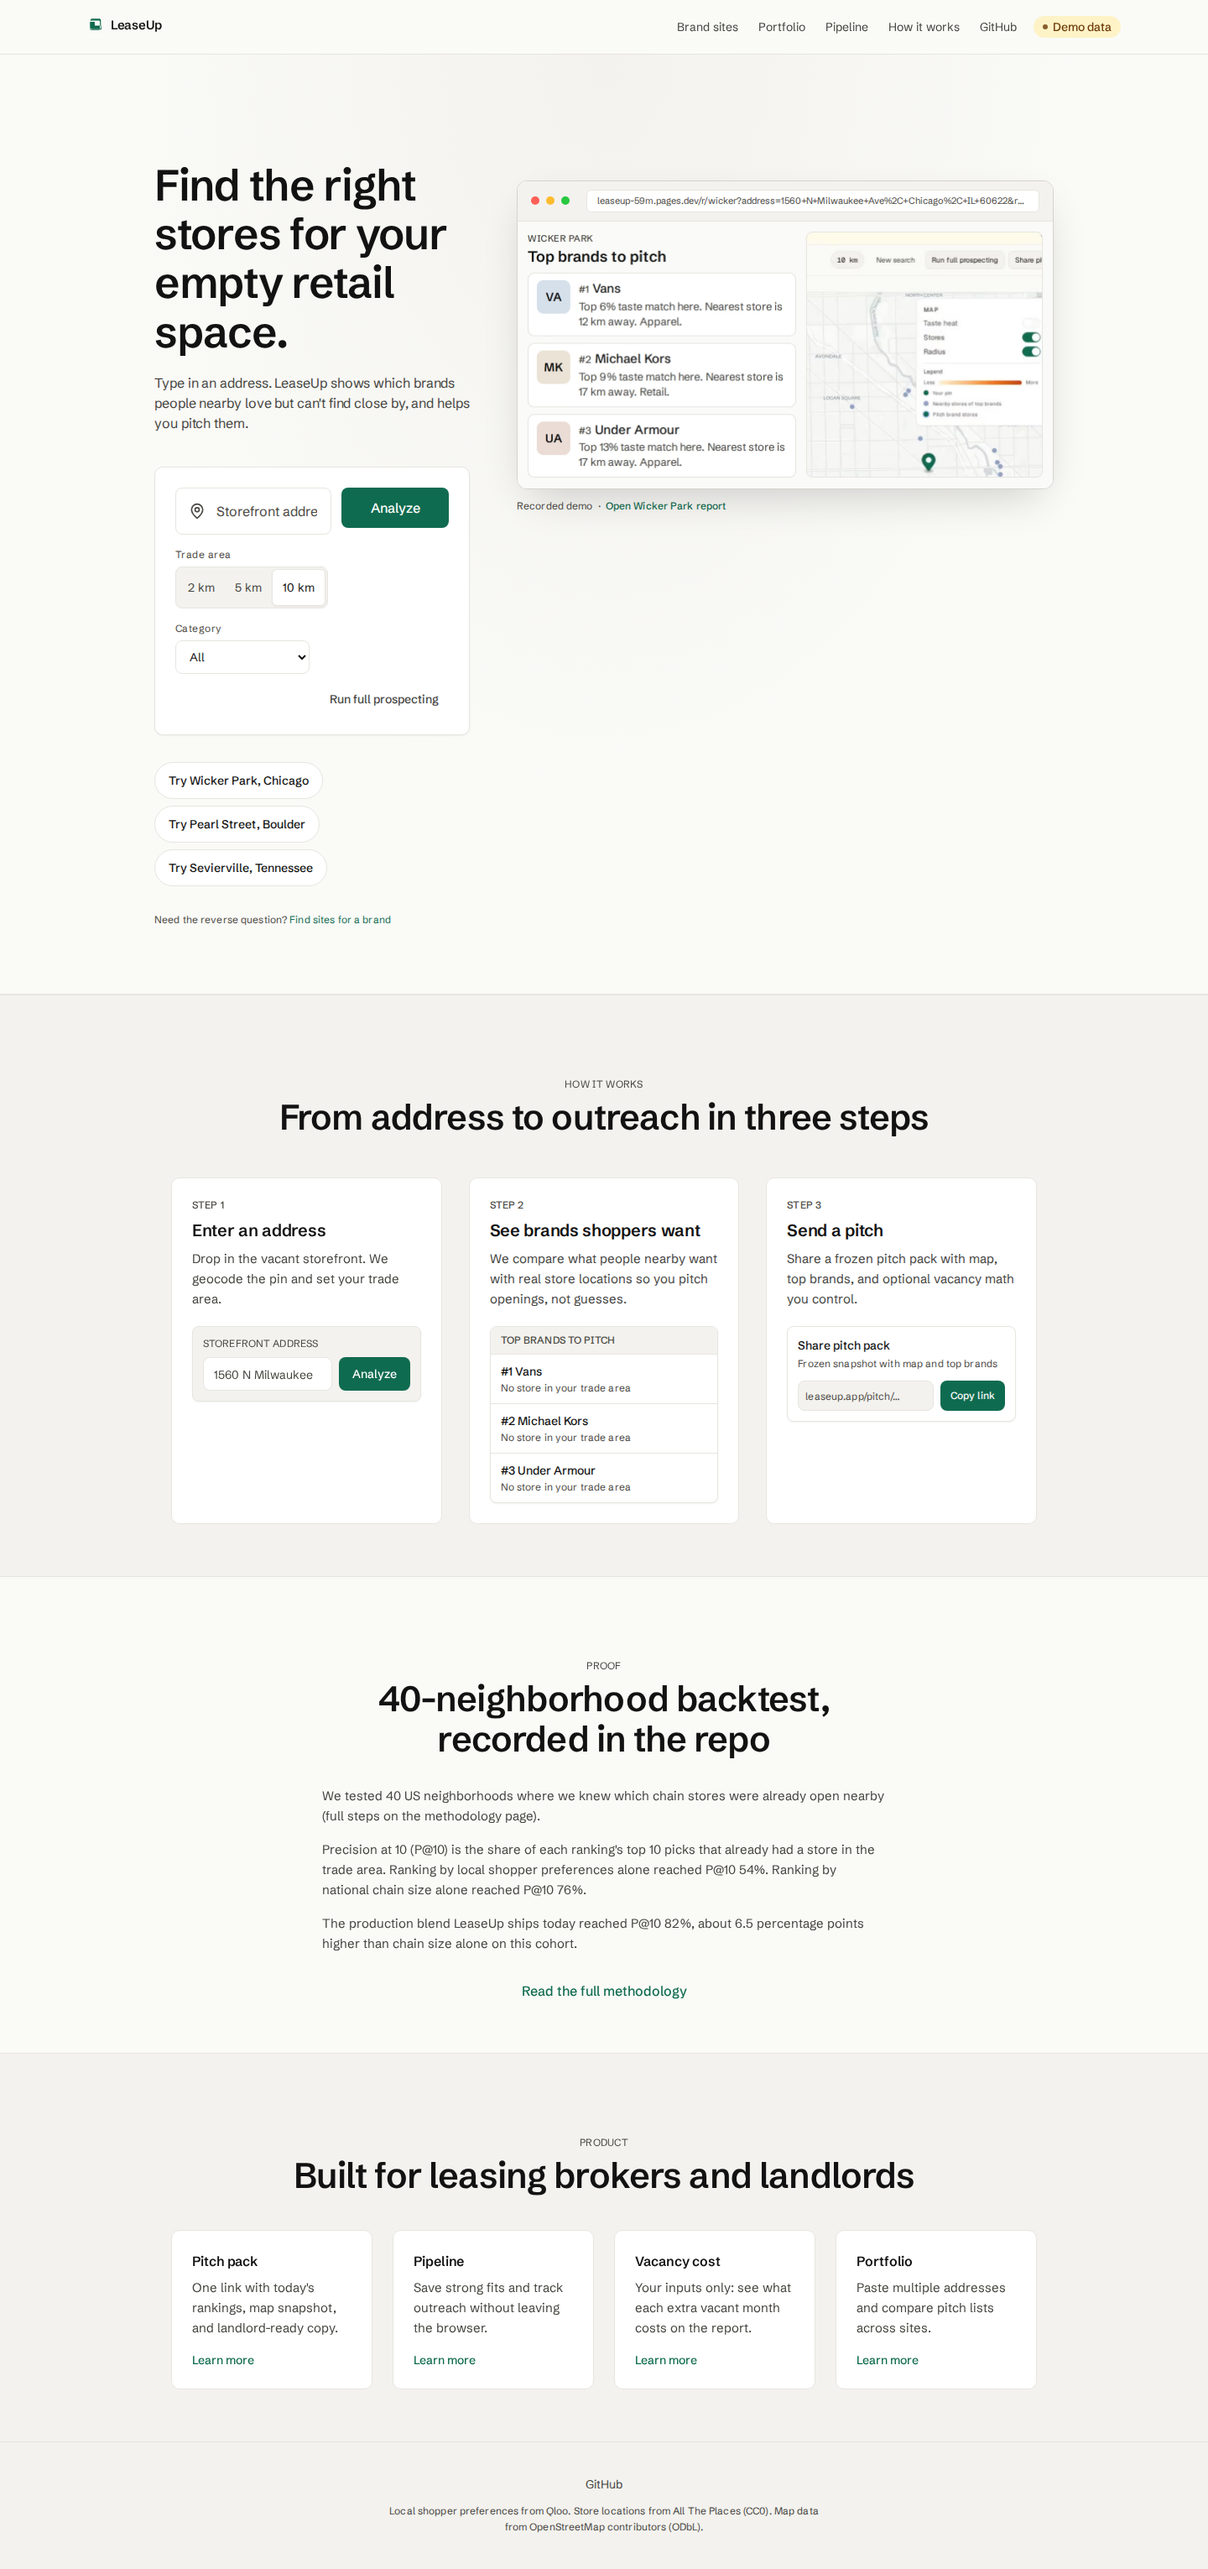
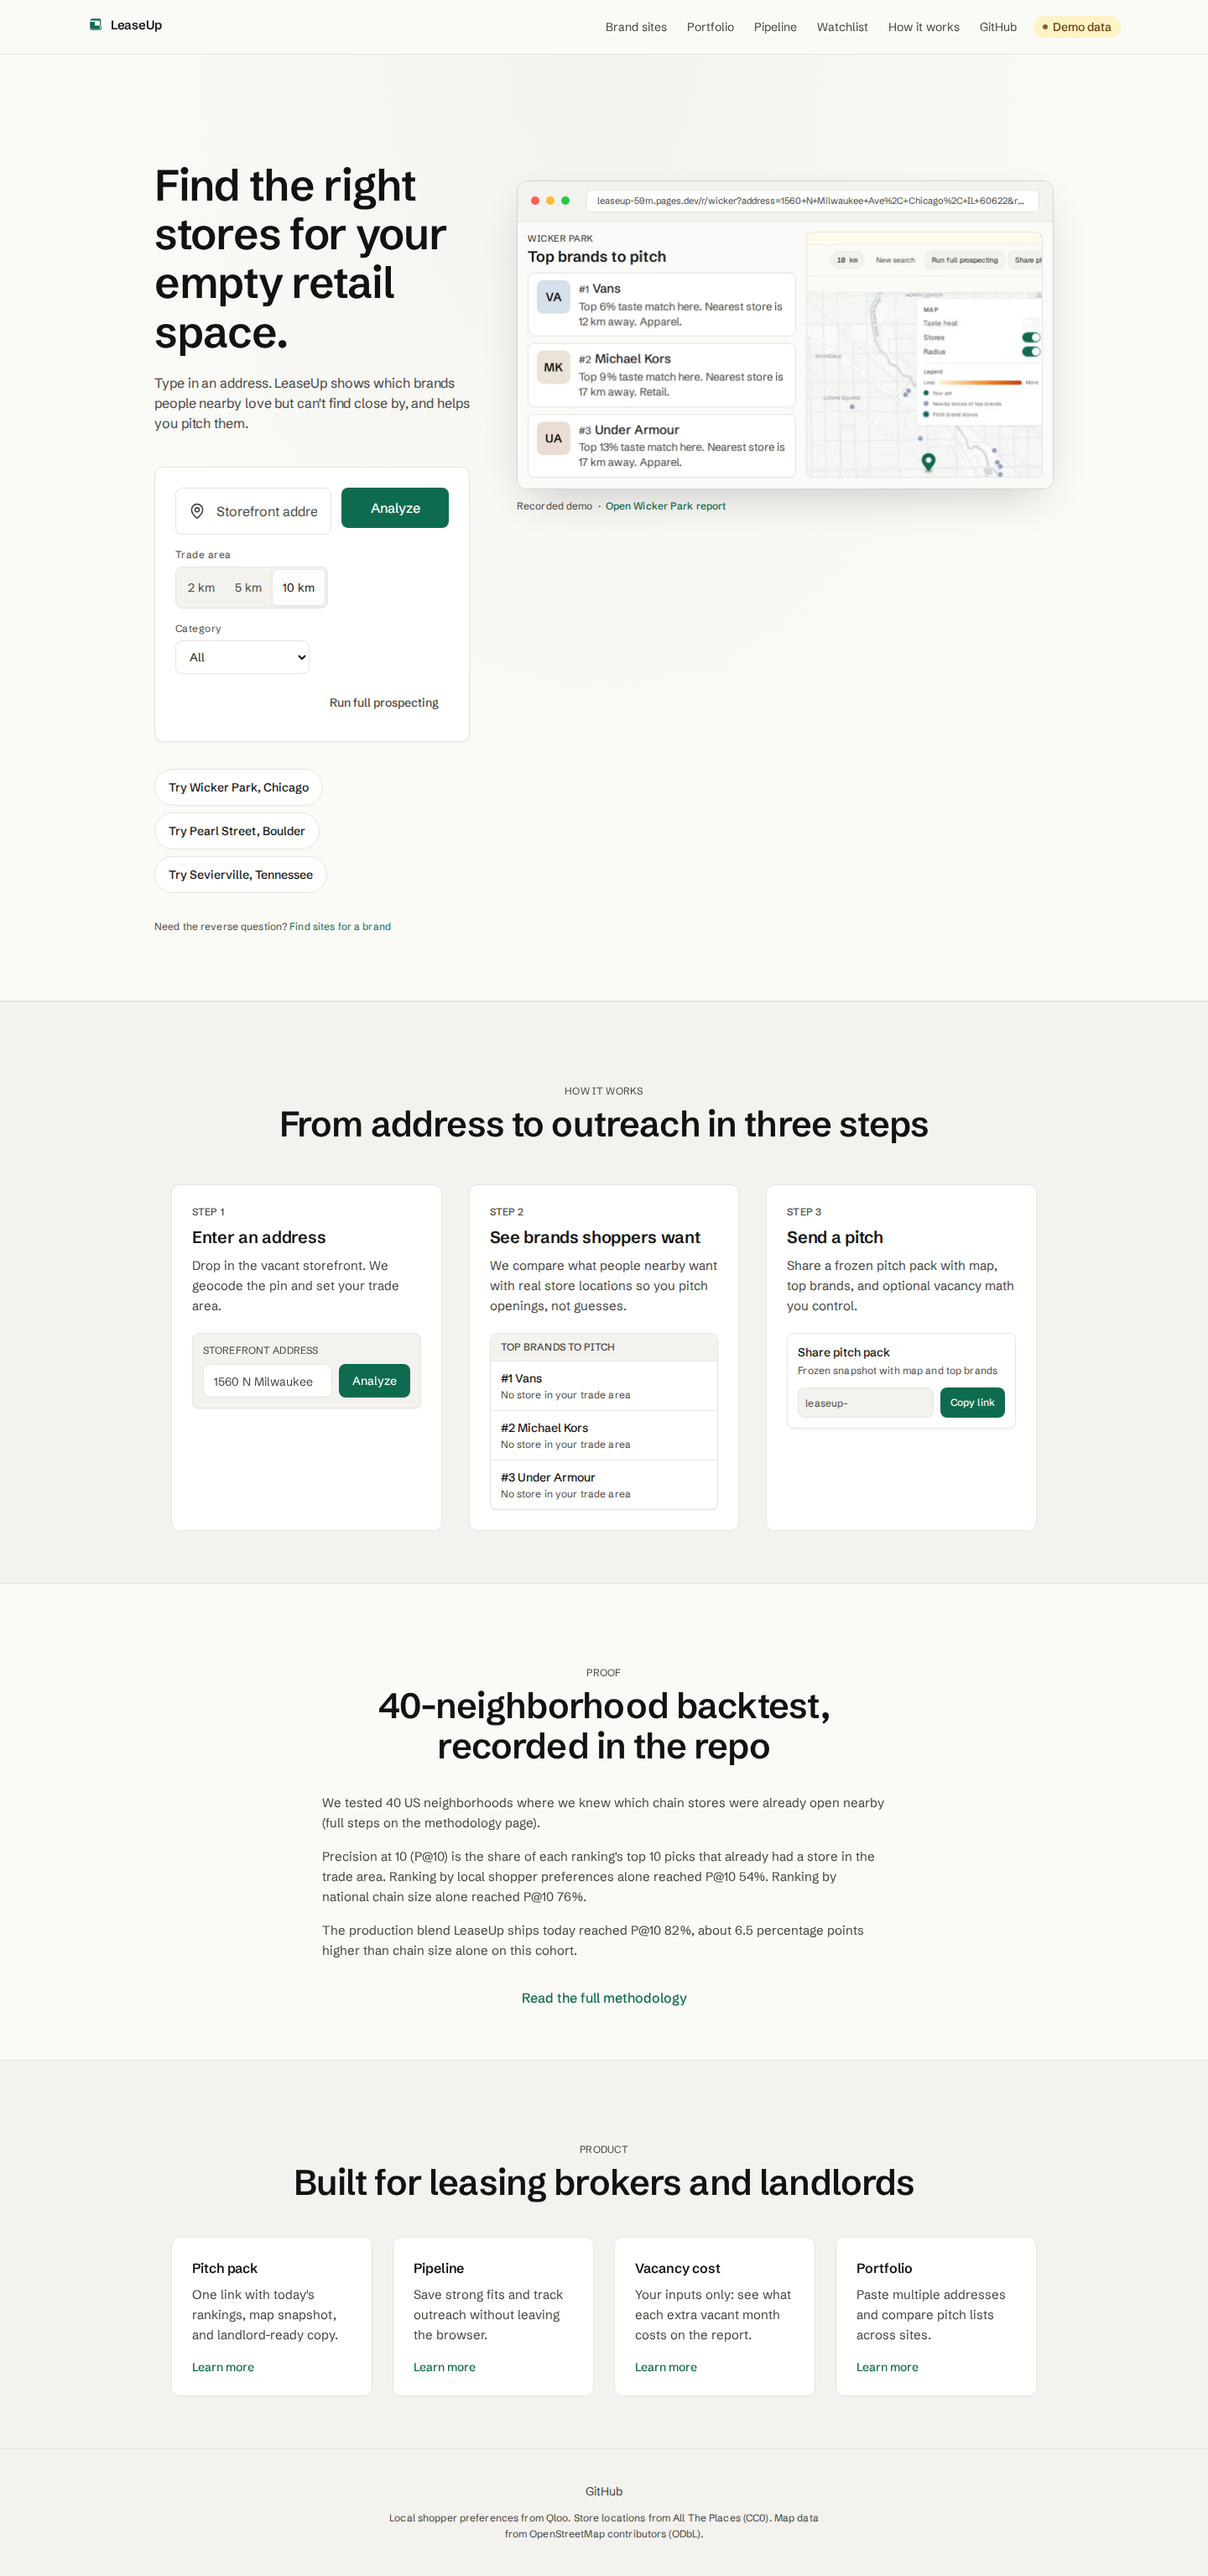
fix(web): drop leaseup.app from landing marketing crops
Use leaseup-59m.pages.dev in how-it-works and product visual chrome, add
landing host test and integration visual QA script; refresh 1440 light landing shot.

diff --git a/apps/web/src/components/landing/LandingProductVisual.tsx b/apps/web/src/components/landing/LandingProductVisual.tsx
@@ -1,6 +1,7 @@
 import { Link } from 'react-router-dom';
 import { LandingReveal } from './LandingReveal';
 import { LandingReportPreview, landingWickerReportPath } from './LandingReportPreview';
+import { LANDING_PUBLIC_HOST } from '../../lib/landing-public-host';
 
 export function LandingProductVisual() {
   return (
@@ -25,7 +26,8 @@ export function LandingProductVisual() {
               <span className="h-2.5 w-2.5 rounded-full bg-[#febc2e]" aria-hidden />
               <span className="h-2.5 w-2.5 rounded-full bg-[#28c840]" aria-hidden />
               <div className="ml-3 flex-1 truncate rounded-md border border-border bg-surface px-3 py-1 text-[11px] text-ink-3">
-                leaseup.app{landingWickerReportPath}
+                {LANDING_PUBLIC_HOST}
+                {landingWickerReportPath}
               </div>
             </div>
             <LandingReportPreview />

diff --git a/apps/web/src/components/landing/LandingStepCrops.tsx b/apps/web/src/components/landing/LandingStepCrops.tsx
@@ -1,5 +1,6 @@
 import { displayBrandName } from '../../lib/brand-display';
 import { LANDING_WICKER_PREVIEW } from '../../data/landing-wicker-preview';
+import { LANDING_PUBLIC_HOST } from '../../lib/landing-public-host';
 
 /** Static UI crops for "How it works" (fixture data only, no network). */
 
@@ -56,7 +57,7 @@ export function PitchStepCrop() {
       <p className="mt-1 text-meta text-ink-3">Frozen snapshot with map and top brands</p>
       <div className="mt-3 flex gap-2">
         <div className="h-9 flex-1 rounded-control border border-border bg-surface-2 px-2 text-meta leading-9 text-ink-3">
-          leaseup.app/pitch/…
+          {LANDING_PUBLIC_HOST}/pitch/…
         </div>
         <div className="flex h-9 items-center rounded-control bg-accent px-3 text-meta font-medium text-[var(--on-accent)]">
           Copy link

diff --git a/apps/web/src/__tests__/landing-public-host.test.ts b/apps/web/src/__tests__/landing-public-host.test.ts
@@ -1,0 +1,20 @@
+import { describe, it, expect } from 'vitest';
+import { readFileSync } from 'node:fs';
+import { join } from 'node:path';
+import { LANDING_PUBLIC_HOST } from '../lib/landing-public-host';
+
+describe('landing public host', () => {
+  it('uses the Pages deployment host, not leaseup.app', () => {
+    expect(LANDING_PUBLIC_HOST).toBe('leaseup-59m.pages.dev');
+    expect(LANDING_PUBLIC_HOST).not.toMatch(/leaseup\.app/i);
+  });
+
+  it('marketing step crops reference the Pages host', () => {
+    const stepCrops = readFileSync(
+      join(process.cwd(), 'src/components/landing/LandingStepCrops.tsx'),
+      'utf8'
+    );
+    expect(stepCrops).toContain('LANDING_PUBLIC_HOST');
+    expect(stepCrops).not.toMatch(/leaseup\.app/);
+  });
+});
